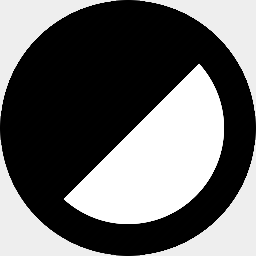
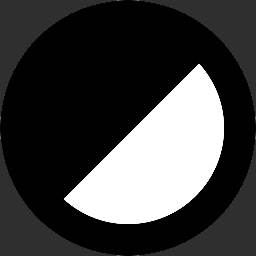
removed few images

diff --git a/style_dark.css b/style_dark.css
@@ -15,7 +15,7 @@ nav{
     left: 0;
     margin-left: 0;
     font-size: 2vw;
-    background-color: #eee; 
+    background-color: rgb(47, 47, 47); 
     width: 100%;
     box-sizing: 100%;
     z-index: 2;
@@ -32,12 +32,12 @@ nav ul li{
     padding: 0% 5%;
 }
 nav ul li:hover{
-    background-color: white;
+    background-color: black;
     border-bottom: 0.2em solid #f09116e3;
     text-shadow: 0.03em 0.03em #053d5dbe;
 }
 li{
-    list-style-image: url(bullet.png) ;
+    list-style-type: disk ;
     
 }
 nav a{
@@ -232,7 +232,7 @@ aside h3{
 /*Styling form */
 span img.end{
     width: 30%;
-    display: block;
+    display: none;
     margin-right: auto;
     margin-left: auto;
 }
@@ -258,6 +258,12 @@ span img.end{
     }
     img.light_and_dark{
         width: 3vw;
+    }
+    span img.end{
+        width: 30%;
+        display: none;
+        margin-right: auto;
+        margin-left: auto;
     }
     div .breif{
         position: static;
